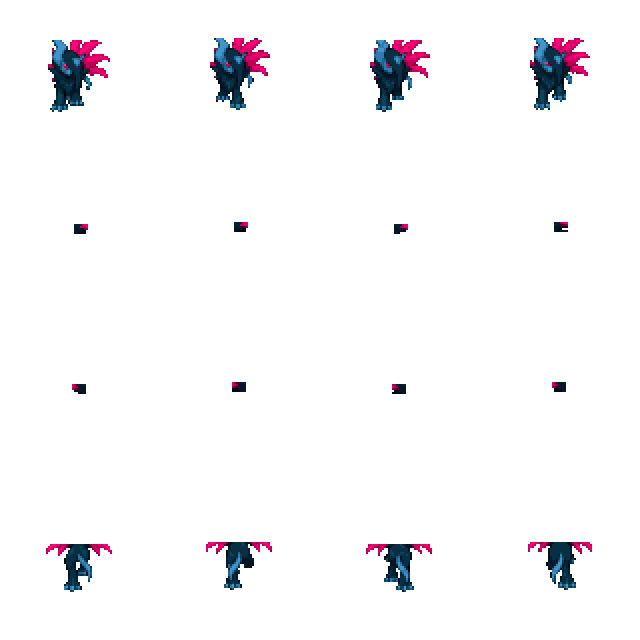
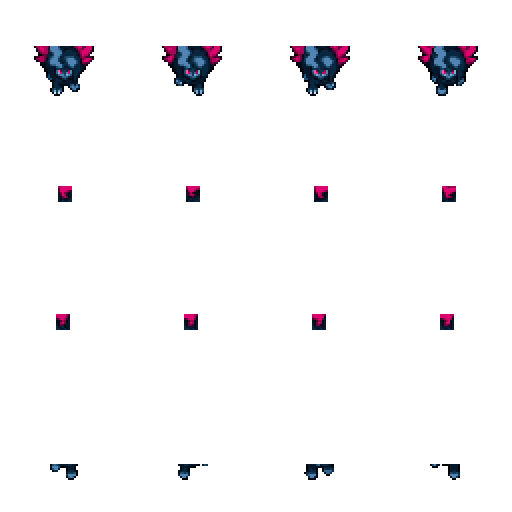
Add follower-based Mega Absol mounts with fitted rider layers

diff --git a/tools/build_mega_absol_z_mount.py b/tools/build_mega_absol_z_mount.py
@@ -1,65 +1,5 @@
-"""Pack the approved Mega Absol Z pixel art around the normal player foot line."""
-from pathlib import Path
-import json
-from PIL import Image
-from import_player_layered_sprites import write_texture_import
+"""Compatibility entry point for the shared Absol mount exporter."""
+from build_absol_mounts import build
 
-ROOT = Path(__file__).resolve().parents[1]
-ASSETS = ROOT / 'assets/mounts/mega_absol_z'
-FRAME = 80
-# Approved v2 has 64px logical cells. Padding and translation put paws at the
-# same world foot line as Cyclizar; the art and player pixel scale stay intact.
-POSITION = (8, -5)
-SOURCE_RIDER_OFFSETS = ((0, -11), (5, -2), (-5, -2), (0, 0))
-DIRECTIONS = ('down', 'left', 'right', 'up')
-
-
-def build():
-    source = Image.open(ASSETS / 'source.png').convert('RGBA')
-    assert source.size == (256, 256)
-    sheets = {name: Image.new('RGBA', (FRAME * 4, FRAME * 4))
-              for name in ('mount', 'foreground', 'rider_mask')}
-    offsets = {}
-    for row, direction in enumerate(DIRECTIONS):
-        offsets[direction] = []
-        for col in range(4):
-            art = source.crop((col*64, row*64, (col+1)*64, (row+1)*64))
-            creature = Image.new('RGBA', (FRAME, FRAME))
-            creature.alpha_composite(art, POSITION)
-            assert creature.getchannel('A').histogram()[255] == art.getchannel('A').histogram()[255]
-            dx, dy = SOURCE_RIDER_OFFSETS[row]
-            dy -= col % 2
-            # Center changes from 32 to 40 logical pixels; translate the rig
-            # along with the artwork, preserving the approved relative seat.
-            offsets[direction].append([dx*2, (dy-13)*2])
-            ox, oy = 16+dx, 16+dy
-            rect = ((0, oy+20, 64, 64) if row == 0 else
-                    (0, oy+21, 64, 64) if row == 3 else
-                    (ox+8, oy+23, ox+15, oy+28) if row == 1 else
-                    (ox+17, oy+23, ox+24, oy+28))
-            foreground = Image.new('RGBA', (FRAME, FRAME))
-            foreground.alpha_composite(art.crop(rect), (rect[0]+POSITION[0], rect[1]+POSITION[1]))
-            mask = Image.new('RGBA', (FRAME, FRAME))
-            mask.putalpha(foreground.getchannel('A'))
-            for name, tile in [('mount', creature), ('foreground', foreground), ('rider_mask', mask)]:
-                sheets[name].alpha_composite(tile, (col*FRAME, row*FRAME))
-    for name, sheet in sheets.items():
-        path = ASSETS / f'{name}.png'
-        sheet.resize((FRAME*8, FRAME*8), Image.Resampling.NEAREST).save(path)
-        write_texture_import(ROOT, path.relative_to(ROOT))
-    icon_art = source.crop((0, 0, 64, 64))
-    icon_art = icon_art.crop(icon_art.getbbox())
-    icon = Image.new('RGBA', (64, 64))
-    icon.alpha_composite(icon_art, ((64-icon_art.width)//2, (64-icon_art.height)//2))
-    icon.save(ASSETS / 'icon.png')
-    for name in ['icon.png', 'source.png']:
-        write_texture_import(ROOT, (ASSETS/name).relative_to(ROOT))
-    catalog = json.loads((ROOT / 'data/mounts.json').read_text())
-    definition = catalog['mounts']['mega_absol_z']
-    assert definition['frameSize'] == [160, 160]
-    assert definition['riderOffsets'] == offsets
-    print('Built Mega Absol Z: approved pixels preserved; ground-aligned 160px frames.')
-
-
-if __name__ == '__main__':
+if __name__ == "__main__":
     build()

diff --git a/tools/build_absol_mounts.py b/tools/build_absol_mounts.py
@@ -1,0 +1,57 @@
+"""Pack approved Absol pixels at exact 2x scale with fitted rider layers."""
+from pathlib import Path
+import json
+from PIL import Image
+from import_player_layered_sprites import write_texture_import
+
+ROOT = Path(__file__).resolve().parents[1]
+MOUNTS = ('mega_absol', 'mega_absol_z')
+DIRECTIONS = ('down', 'left', 'right', 'up')
+# Move the artwork and its approved rider rig up one logical pixel to put
+# paws on the same world ground line as Cyclizar. Players retain 64px frames.
+OFFSETS = ((0, -40), (10, -20), (-10, -20), (0, -18))
+# Source-space foreground: frontal head, far leg, far leg, rear rump.
+# Near legs remain visible. Masks only remove rider pixels behind artwork.
+REGIONS = ((0, 24, 64, 64), (29, 30, 36, 38),
+           (28, 30, 35, 38), (0, 41, 64, 64))
+
+
+def build():
+    catalog = json.loads((ROOT/'data/mounts.json').read_text())
+    for mount_id in MOUNTS:
+        folder = ROOT/'assets/mounts'/mount_id
+        source = Image.open(folder/'source.png').convert('RGBA')
+        assert source.size == (256, 256)
+        sheets = {k: Image.new('RGBA', (256, 256)) for k in ('mount', 'foreground', 'rider_mask')}
+        for row in range(4):
+            for col in range(4):
+                art = source.crop((col*64, row*64, (col+1)*64, (row+1)*64))
+                creature = Image.new('RGBA', (64, 64))
+                creature.alpha_composite(art, (0,-1))
+                assert creature.getchannel('A').histogram()[255] == art.getchannel('A').histogram()[255]
+                foreground = Image.new('RGBA', (64, 64))
+                rect = REGIONS[row]
+                foreground.alpha_composite(art.crop(rect), (rect[0], rect[1]-1))
+                mask = Image.new('RGBA', (64, 64))
+                mask.putalpha(foreground.getchannel('A'))
+                for key, tile in [('mount', creature), ('foreground', foreground), ('rider_mask', mask)]:
+                    sheets[key].alpha_composite(tile, (col*64, row*64))
+        for key, sheet in sheets.items():
+            path = folder/f'{key}.png'
+            sheet.resize((512,512), Image.Resampling.NEAREST).save(path)
+            write_texture_import(ROOT, path.relative_to(ROOT))
+        icon_art = source.crop((0,0,64,64))
+        icon_art = icon_art.crop(icon_art.getbbox())
+        icon = Image.new('RGBA', (64,64))
+        icon.alpha_composite(icon_art, ((64-icon_art.width)//2, (64-icon_art.height)//2))
+        icon.save(folder/'icon.png')
+        for name in ('source.png', 'icon.png'):
+            write_texture_import(ROOT, (folder/name).relative_to(ROOT))
+        definition = catalog['mounts'][mount_id]
+        assert definition['frameSize'] == [128,128]
+        assert definition['riderOffsets'] == {d:[list(OFFSETS[r]) for _ in range(4)] for r,d in enumerate(DIRECTIONS)}
+        print(f'Built {mount_id}: approved pixels, 128px frames, fitted layers and icon.')
+
+
+if __name__ == '__main__':
+    build()

diff --git a/docs/mounts/mega_absol_z.md b/docs/mounts/mega_absol_z.md
@@ -1,45 +1,48 @@
-# Mega Absol Z mount
+# Mega Absol and Mega Absol Z mounts
 
-The approved v2 design uses a lean dark blue body, an angular blue horn, long
-chest fur and swept magenta feathers. The artwork was generated with imagegen
-from the user's second character reference, then approved by the user.
-`assets/mounts/mega_absol_z/source.png` preserves the approved logical pixels.
+Both mounts use the approved compact follower-based designs: white wing-like
+fur for Mega Absol, navy fur and magenta feathers for Mega Absol Z. The original
+Absol follower and the approved four-direction concepts were imagegen references.
+`assets/mounts/{mega_absol,mega_absol_z}/source.png` preserves the approved logical
+pixels. This replaces the previous taller Mega Absol Z design without changing
+its mount ID or unlock item, so existing ownership and loadout selections remain.
 
-`tools/build_mega_absol_z_mount.py` exports 640×640 mount, foreground and rider
-mask atlases with 160×160 frames. Rows are down, left, right, up, and the four
-columns form a walking loop at 5 fps. Player frames remain 64×64. All creature
-pixels retain their approved colors and exact 2× scale.
+`tools/build_absol_mounts.py` exports 512×512 mount, foreground and rider-mask
+atlases with 128×128 frames. The older `build_mega_absol_z_mount.py` command remains
+a compatibility entry point. Rows are down, left, right, up; columns are four
+walking phases at 5 fps. Source pixels retain their exact colors and 2× scale.
+The full rig moves upward one logical pixel from the approved seated preview,
+aligning paws to the ordinary player ground line. Player frames remain 64×64.
 
-The padded frame aligns the paws with Cyclizar's ordinary world foot line.
-Compared with the original design preview, the complete mount/rider rig is
-translated upward 26 physical pixels; relative seating and creature size do
-not change. Front/rear foreground hides the appropriate lower rider pixels;
-side masks hide the far leg. Keep masks, foreground and offsets together.
-This grounded mount uses ordinary land movement, collision and world depth.
+Directional masks put the head in front of the rider when facing south, conceal
+the far leg in side views, and place the rear rump ahead of overlapping feet.
+Foreground and mask share precisely the same silhouette pixels in every frame.
+Near-side legs remain visible. Rider poses remain static while mount and masks
+advance together. Both genders use the existing body, clothes, hair and headgear.
+The mounts use normal land movement, collision and world depth, without hovering.
 
-The dedicated 64×64 icon tightly frames the front-facing creature. Names and
-descriptions are included for en, nl, pt_BR and zh_CN.
+Each variant has a dedicated 64×64 icon and item text in en, nl, pt_BR and zh_CN.
+The PNG fallback loader also handles assets not yet imported by an open editor.
 
 ## Availability
 
-Mount ID: `mega_absol_z`. Permanent, untradeable unlock item:
-`mega-absol-z-mount`. The catalog supports existing admin/system-mail grants:
+| Mount ID | Permanent unlock item |
+| --- | --- |
+| `mega_absol` | `mega-absol-mount` |
+| `mega_absol_z` | `mega-absol-z-mount` |
 
-```json
-{"type":"item","itemId":"mega-absol-z-mount","quantity":1}
-```
+The untradeable items can be granted through the existing admin/reward flow.
+Each unlocks only its corresponding mount; the player still needs a regional
+Mount License. No shop source or automatic account grant is added.
 
-The player must own the item and have the current region's Mount License.
-This addition does not grant items to accounts or add a shop/quest source.
+## Verification and preview
 
-## Validation and preview
+`tests/mega_absol_z_mount_check.gd` now covers both variants: ownership, icons,
+localization, exact artwork, ground alignment, layer consistency, both player
+models and local/remote animation synchronization. The unimported-assets check
+also covers both variants. Existing mount-selection, mount-switch, world-depth
+and localization checks cover their shared integration paths.
 
-`tests/mega_absol_z_mount_check.gd` checks source-pixel preservation, foot
-alignment, ownership, icon loading, masks and local/remote avatars of both
-genders across all directions and frames. Existing mount-switch, world-depth,
-mount-manager and item-localization checks cover the integration. Backend
-tests exercise granting the real catalog item and ownership/license denial.
-
-`tools/mega_absol_z_mount_demo.tscn` is an offline scene using the actual avatar
-renderer. WASD/arrows move and turn, G changes gender, Space toggles animation.
-Run Godot through the assigned slot's `ops/worktrees/slot-env` as usual.
+`tools/mega_absol_z_mount_demo.tscn` supports both variants with the actual avatar
+renderer. WASD/arrows move and turn, G changes player model, M switches mount,
+and Space toggles animation. Run Godot through the assigned slot environment.

diff --git a/CHANGELOG.md b/CHANGELOG.md
@@ -2,6 +2,8 @@
 
 ## Unreleased
 
+- Add follower-based Mega Absol and refresh Mega Absol Z with approved compact artwork, fitted player masks, four-direction animation and individual icons.
+
 - Reuse loaded profile preferences at startup to avoid a redundant settings request and its timeout during world loading.
 
 - Load mount PNGs directly when a newly merged asset has not yet been imported, restoring Mega Absol Z visibility and its Bag icon in an already open checkout.
